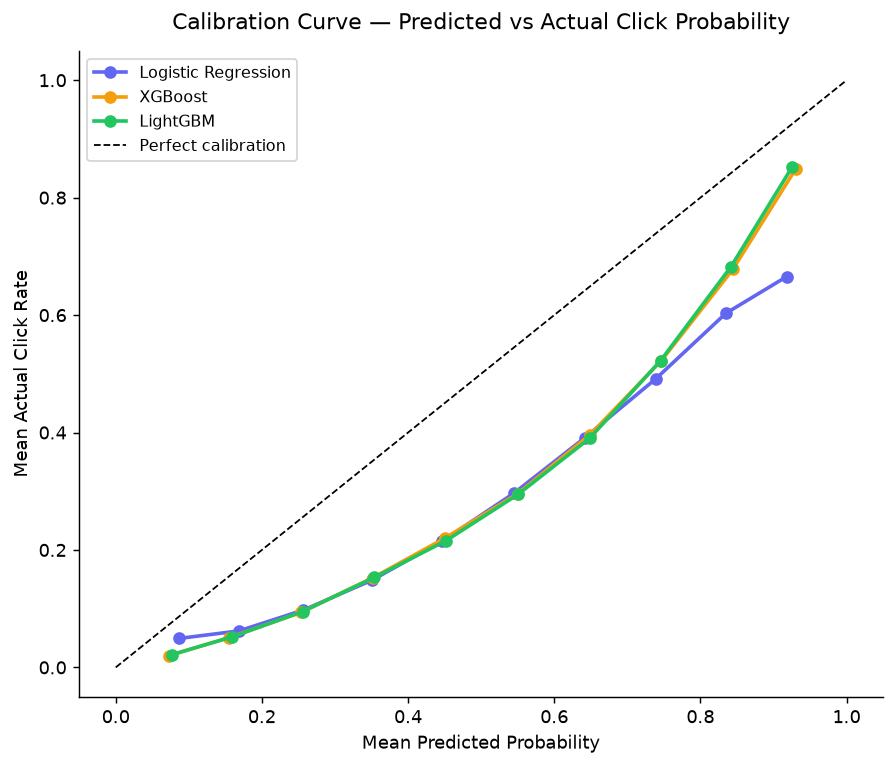
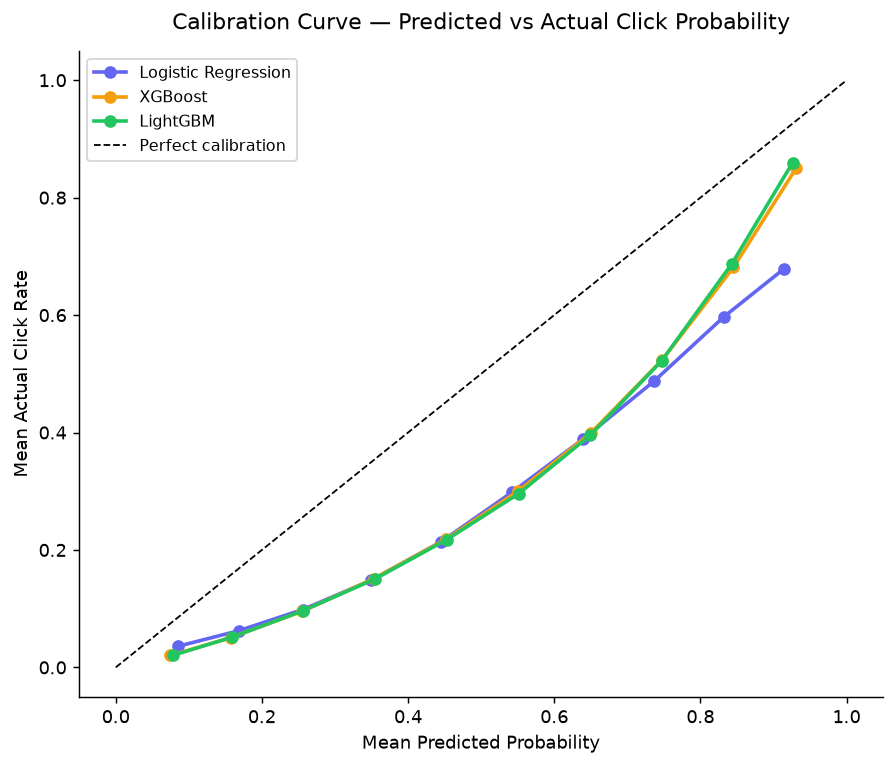
"Retrain CTR model on 10M rows (up from 5M)
- Bumped SAMPLE_SIZE to 10M in create_sample.py, output renamed to sample_10m.csv
- Updated SAMPLE_PATH in Prepare_CTR_data.py to match
- Retrained LR, XGBoost, LightGBM on 7M train / 1.5M val / 1.5M test split
- Results: XGBoost AUC 0.7864, LightGBM AUC 0.7843, LR AUC 0.7171 (baseline)

diff --git a/backend/app/db/models.py b/backend/app/db/models.py
@@ -1,7 +1,7 @@
 from __future__ import annotations
 
 from datetime import datetime, date
-from typing import Optional
+from typing import Optional, List
 
 from sqlalchemy import (
     Boolean,
@@ -11,17 +11,196 @@ from sqlalchemy import (
     ForeignKey,
     Index,
     Integer,
+    JSON,
     String,
     Text,
     func,
 )
 from sqlalchemy.orm import DeclarativeBase, Mapped, mapped_column
-from sqlalchemy.sql import func
 
 class Base(DeclarativeBase):
     pass
 
 
+# ---------------------------------------------------------------------------
+# realtime_event_logs
+# ---------------------------------------------------------------------------
+
+class RealtimeEventLog(Base):
+    __tablename__ = "realtime_event_logs"
+
+    id: Mapped[int] = mapped_column(Integer, primary_key=True, autoincrement=True)
+
+    event_type: Mapped[str] = mapped_column(
+        String(20),
+        nullable=False,
+        index=True,
+    )
+    # CLICK | FRAUD | PRED | SHAP
+
+    campaign_id: Mapped[Optional[str]] = mapped_column(
+        String(50),
+        nullable=True,
+        index=True,
+    )
+
+    ip_address: Mapped[Optional[str]] = mapped_column(
+        String(45),
+        nullable=True,
+        index=True,
+    )
+
+    shard: Mapped[Optional[str]] = mapped_column(
+        String(20),
+        nullable=True,
+    )
+
+    offset: Mapped[Optional[int]] = mapped_column(
+        Integer,
+        nullable=True,
+    )
+
+    score: Mapped[Optional[float]] = mapped_column(
+        Float,
+        nullable=True,
+    )
+
+    line_text: Mapped[Optional[str]] = mapped_column(
+        Text,
+        nullable=True,
+    )
+
+    payload: Mapped[Optional[dict]] = mapped_column(
+        JSON,
+        nullable=True,
+    )
+    # for FRAUD rows this carries {"reason", "ip_address", "fraud_score"} —
+    # replaces the old separate FraudBlockEvent table.
+
+    created_at: Mapped[datetime] = mapped_column(
+        DateTime(timezone=True),
+        nullable=False,
+        server_default=func.now(),
+        index=True,
+    )
+
+    __table_args__ = (
+        Index("ix_realtime_event_logs_type_created", "event_type", "created_at"),
+        Index("ix_realtime_event_logs_campaign_created", "campaign_id", "created_at"),
+    )
+
+
+# ---------------------------------------------------------------------------
+# stream_metric_snapshots
+# ---------------------------------------------------------------------------
+
+class StreamMetricSnapshot(Base):
+    __tablename__ = "stream_metric_snapshots"
+
+    id: Mapped[int] = mapped_column(Integer, primary_key=True, autoincrement=True)
+
+    captured_at: Mapped[datetime] = mapped_column(
+        DateTime(timezone=True),
+        nullable=False,
+        server_default=func.now(),
+        index=True,
+    )
+
+    events_per_second: Mapped[float] = mapped_column(Float, nullable=False, default=0.0)
+    total_events_today: Mapped[int] = mapped_column(Integer, nullable=False, default=0)
+    kafka_latency_ms: Mapped[float] = mapped_column(Float, nullable=False, default=0.0)
+    clicks_count: Mapped[int] = mapped_column(Integer, nullable=False, default=0)
+    fraud_count: Mapped[int] = mapped_column(Integer, nullable=False, default=0)
+    preds_count: Mapped[int] = mapped_column(Integer, nullable=False, default=0)
+    shap_count: Mapped[int] = mapped_column(Integer, nullable=False, default=0)
+
+    __table_args__ = (
+        Index("ix_stream_metric_snapshots_captured_at", "captured_at"),
+    )
+
+
+# ---------------------------------------------------------------------------
+# cluster_nodes
+# ---------------------------------------------------------------------------
+
+class ClusterNode(Base):
+    __tablename__ = "cluster_nodes"
+
+    id: Mapped[int] = mapped_column(Integer, primary_key=True, autoincrement=True)
+
+    node_name: Mapped[str] = mapped_column(
+        String(100),
+        nullable=False,
+        unique=True,
+        index=True,
+    )
+
+    region: Mapped[str] = mapped_column(String(50), nullable=False, default="US-EAST-1", index=True)
+    is_healthy: Mapped[bool] = mapped_column(Boolean, nullable=False, default=True, index=True)
+
+    last_heartbeat: Mapped[datetime] = mapped_column(
+        DateTime(timezone=True),
+        nullable=False,
+        server_default=func.now(),
+        index=True,
+    )
+
+    __table_args__ = (
+        Index("ix_cluster_nodes_region_healthy", "region", "is_healthy"),
+    )
+
+
+# ---------------------------------------------------------------------------
+# system_patch_infos
+# ---------------------------------------------------------------------------
+
+class SystemPatchInfo(Base):
+    __tablename__ = "system_patch_infos"
+
+    id: Mapped[int] = mapped_column(Integer, primary_key=True, autoincrement=True)
+
+    version: Mapped[str] = mapped_column(String(50), nullable=False, index=True)
+    description: Mapped[Optional[str]] = mapped_column(Text, nullable=True)
+
+    deployed_at: Mapped[datetime] = mapped_column(
+        DateTime(timezone=True),
+        nullable=False,
+        server_default=func.now(),
+        index=True,
+    )
+
+    __table_args__ = (
+        Index("ix_system_patch_infos_deployed_at", "deployed_at"),
+    )
+
+
+# ---------------------------------------------------------------------------
+# stream_control_states
+# ---------------------------------------------------------------------------
+
+class StreamControlState(Base):
+    __tablename__ = "stream_control_states"
+
+    id: Mapped[int] = mapped_column(Integer, primary_key=True, autoincrement=True)
+    # singleton row — always id = 1
+
+    is_paused: Mapped[bool] = mapped_column(Boolean, nullable=False, default=False)
+    paused_at: Mapped[Optional[datetime]] = mapped_column(DateTime(timezone=True), nullable=True)
+    paused_by: Mapped[Optional[str]] = mapped_column(String(100), nullable=True)
+
+    fraud_counter_reset_at: Mapped[Optional[datetime]] = mapped_column(
+        DateTime(timezone=True),
+        nullable=True,
+    )
+    # non-destructive reset baseline — fraud counts are filtered to
+    # created_at >= this timestamp instead of deleting rows.
+
+    updated_at: Mapped[datetime] = mapped_column(
+        DateTime(timezone=True),
+        nullable=False,
+        server_default=func.now(),
+        onupdate=func.now(),
+    )
 # ---------------------------------------------------------------------------
 # users
 # ---------------------------------------------------------------------------
@@ -550,6 +729,12 @@ class InfrastructureMetric(Base):
         nullable=False,
         default=0.0,
     )
+
+    detail: Mapped[Optional[str]] = mapped_column(
+        String(255),
+        nullable=True,
+    )
+    # short badge annotation, e.g. "HIT RATE: 94%" for redis_cache
 
     heartbeat_timestamp: Mapped[datetime] = mapped_column(
         DateTime(timezone=True),

diff --git a/backend/app/main.py b/backend/app/main.py
@@ -38,6 +38,9 @@ from app.websocket.campaigns_ws import router as campaigns_ws_router
 from app.websocket.analytics_ws import router as analytics_ws_router
 from app.api.v1.analytics import router as analytics_router
 
+from app.api.v1.realtime_events import router as realtime_events_router
+from app.websocket.realtime_events_ws import realtime_events_live_ws
+from app.services.event_simulator_service import simulator as realtime_events_simulator
 logger = logging.getLogger(__name__)
 logging.basicConfig(level=logging.INFO)
 
@@ -76,8 +79,13 @@ async def lifespan(app: FastAPI) -> AsyncGenerator[None, None]:
     # await kafka_producer.start()
     # logger.info("Kafka producer started.")
     # ────────────────────────────────────────────────────────────────────
+    realtime_events_simulator.start()
+    logger.info("Real-Time Events simulator started.")
 
     yield  # application is running
+
+    await realtime_events_simulator.stop()
+    logger.info("Real-Time Events simulator stopped.")
 
     # Shutdown
     logger.info("Shutting down …")
@@ -122,6 +130,7 @@ def create_app() -> FastAPI:
     application.include_router(ad_management.router, prefix="/api/v1")
     application.include_router(audience.router, prefix="/api/v1")
     application.include_router(system_health_router, prefix="/api/v1")
+    application.include_router(realtime_events_router, prefix="/api/v1")
 
     # ── WebSocket routes ────────────────────────────────────────────────
     application.add_api_websocket_route("/ws/dashboard/live", dashboard_live_ws)
@@ -129,6 +138,7 @@ def create_app() -> FastAPI:
     application.add_api_websocket_route("/ws/ad-management/analysis-log", ad_management_live_ws)  
     application.add_api_websocket_route("/ws/audience/live", audience_live_ws)
     application.add_api_websocket_route("/ws/system-health/live", system_health_live_ws)
+    application.add_api_websocket_route("/ws/realtime-events", realtime_events_live_ws)
     application.include_router(campaigns_router, prefix="/api/v1")
     application.include_router(campaigns_ws_router)
     application.include_router(analytics_ws_router)

diff --git a/backend/ml/create_sample.py b/backend/ml/create_sample.py
@@ -22,8 +22,8 @@ import time
 
 # ── CONFIG ────────────────────────────────────────────────────────────────────
 RAW_DATA_PATH  = "ml/data/train.txt"
-SAMPLE_PATH    = "ml/data/sample_5m.csv"
-SAMPLE_SIZE    = 5_000_000
+SAMPLE_PATH    = "ml/data/sample_10m.csv"
+SAMPLE_SIZE    = 10_000_000
 CHUNK_SIZE     = 200_000
 RANDOM_SEED    = 42
 # ─────────────────────────────────────────────────────────────────────────────

diff --git a/backend/ml/Prepare_CTR_data.py b/backend/ml/Prepare_CTR_data.py
@@ -30,7 +30,7 @@ import joblib
 warnings.filterwarnings("ignore")
 
 # ── CONFIG ────────────────────────────────────────────────────────────────────
-SAMPLE_PATH    = "ml/data/sample_5m.csv"
+SAMPLE_PATH    = "ml/data/sample_10m.csv"
 OUTPUT_DIR     = "ml/data"
 ARTIFACTS_DIR  = "ml/save_model"
 RANDOM_SEED    = 42
